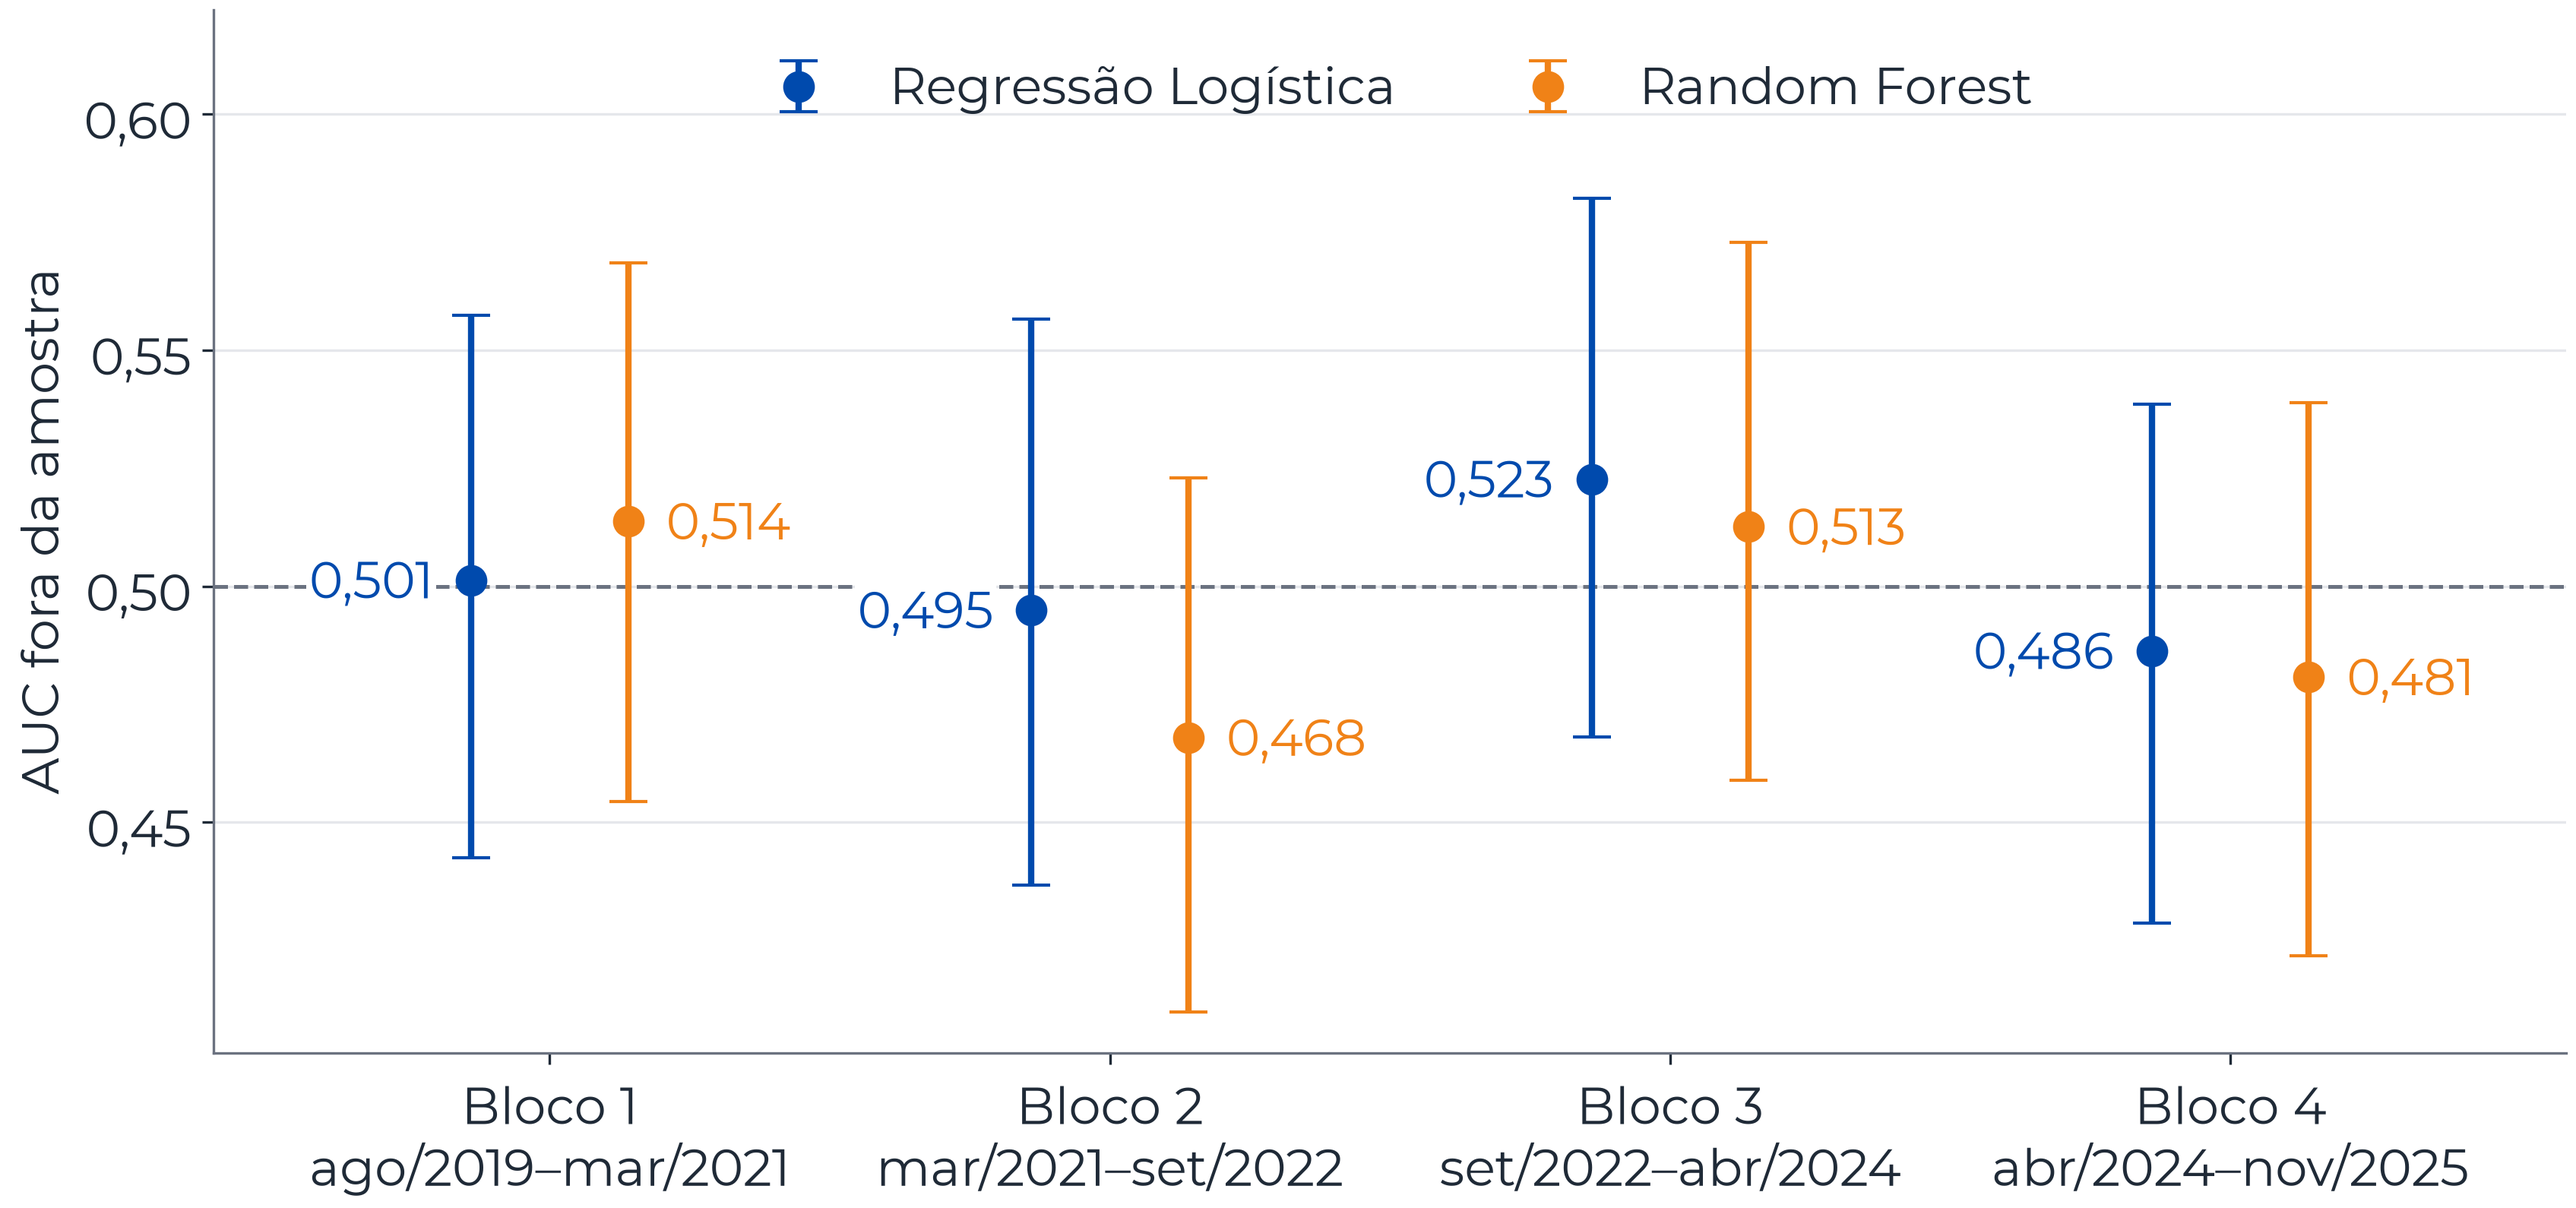
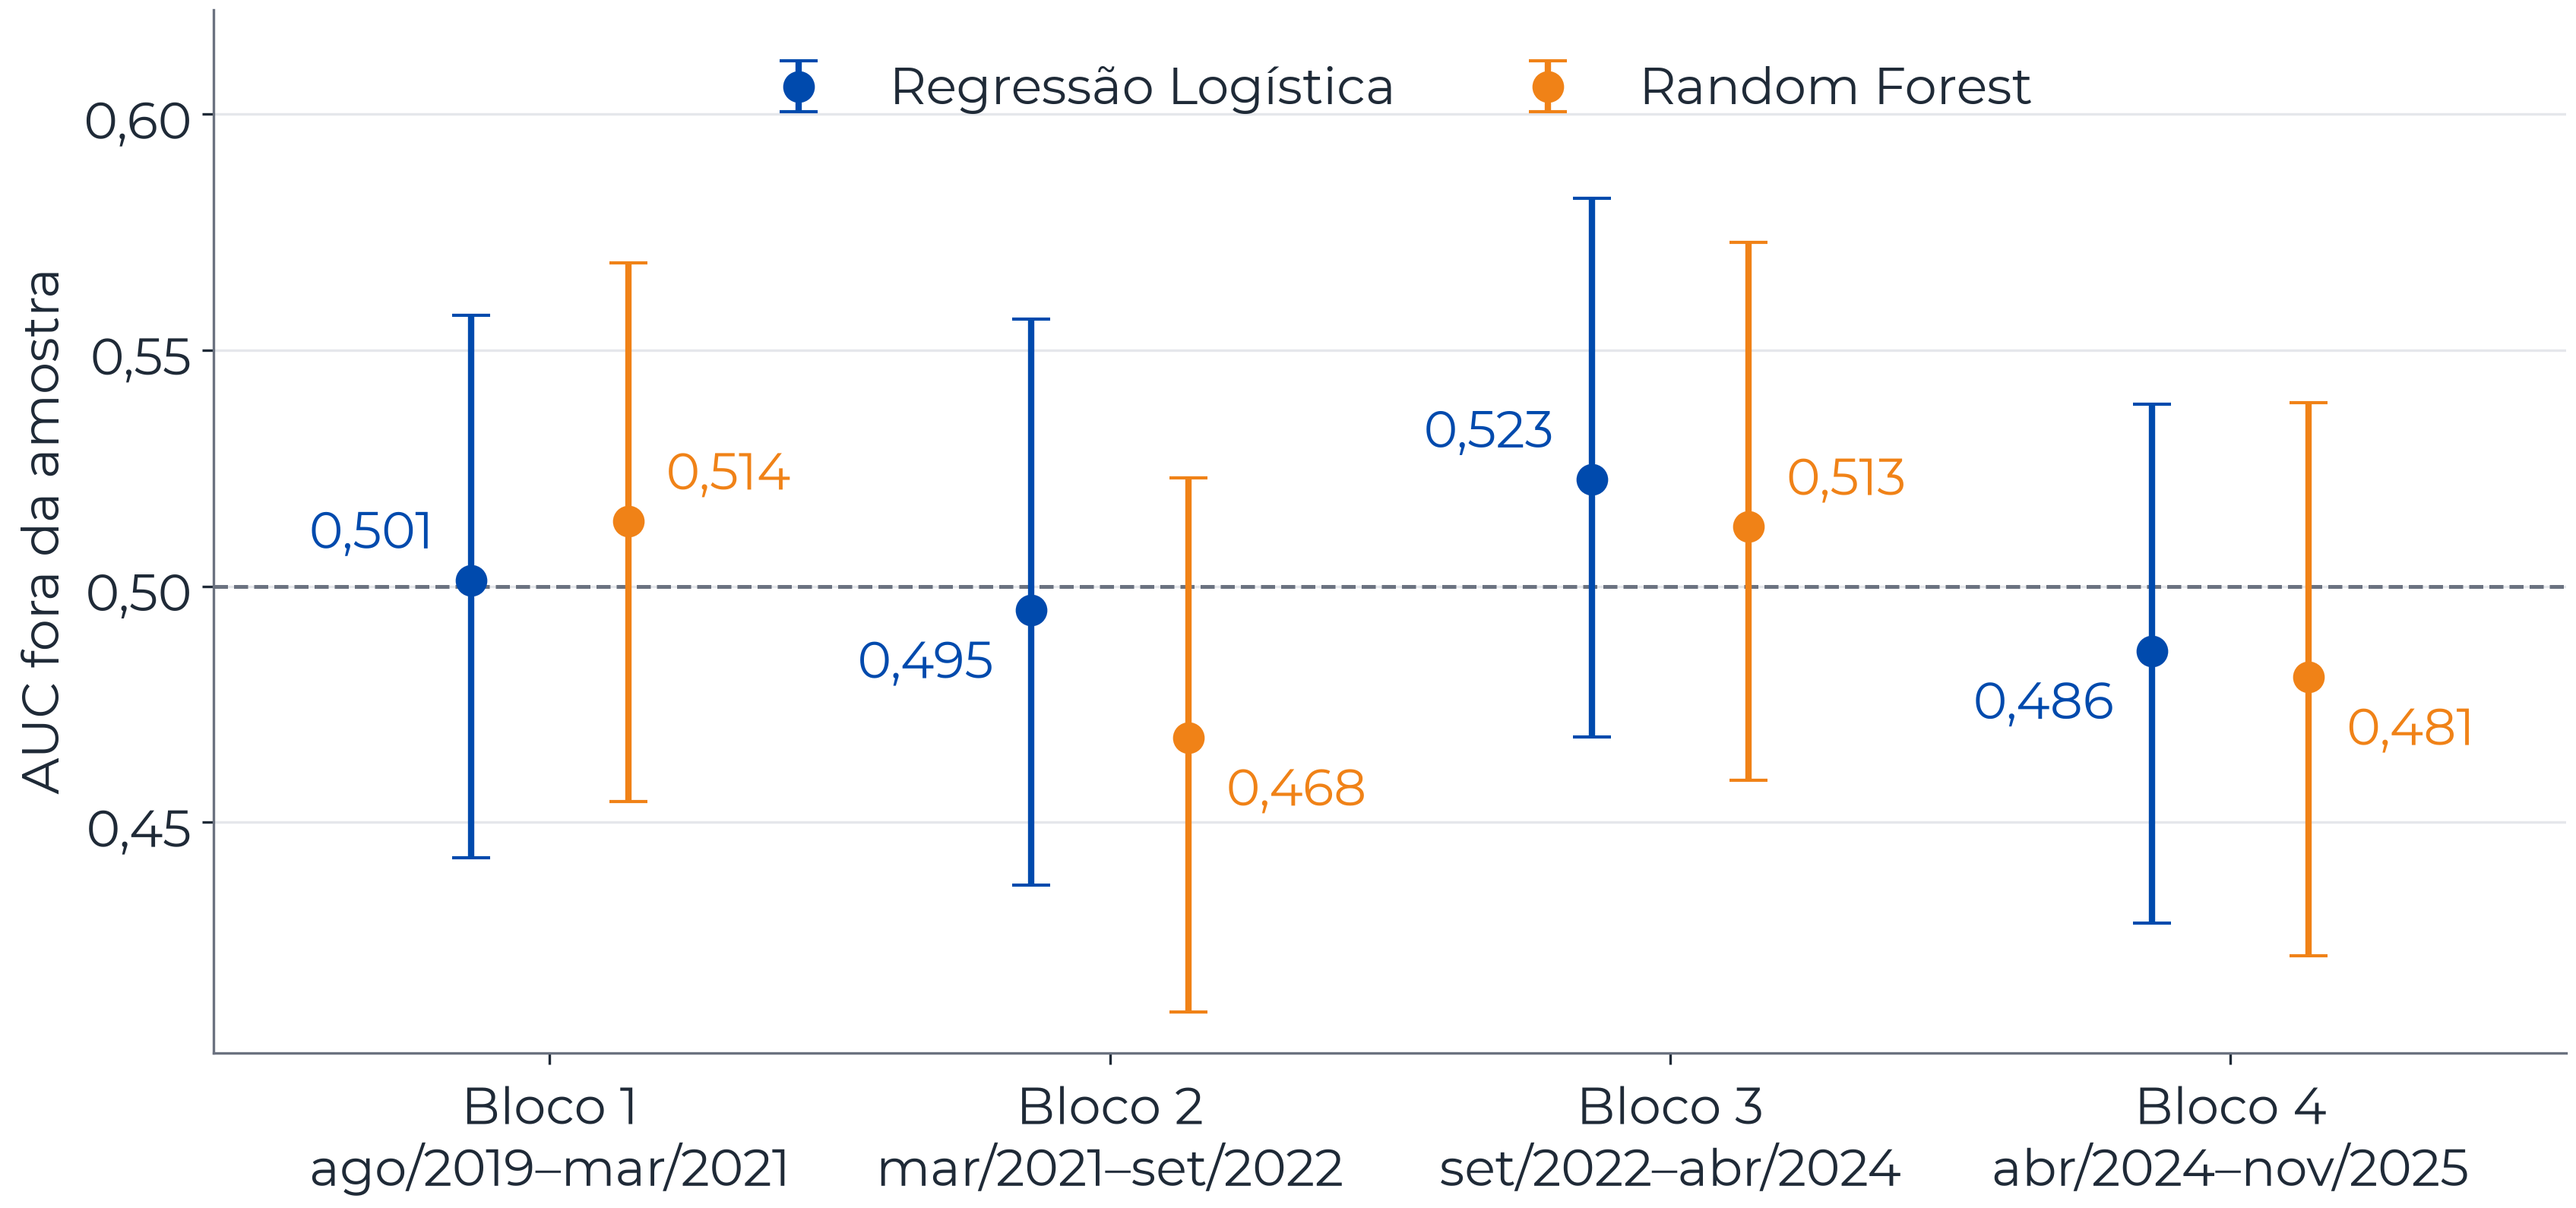
feat(apresentação): cores de polaridade, rótulos fora da linha de 0,50 e cobertura por ano
- F6: sentimento positivo extremo em #0F766E e negativo extremo em #9F1239,
  fora da paleta dos modelos, com faixas de IC em alpha 0,15. As duas cores
  ficam em `style.POLARITY_COLORS` (pior separação para daltonismo: ΔE 8,2
  em OKLab, deuteranopia).
- F5b: cada rótulo de valor fica inteiro acima da linha tracejada de 0,50
  quando o valor está nela ou acima, e inteiro abaixo quando está abaixo. O
  mesmo ajuste vale para a F9, que usa o mesmo rótulo (o "0,500" cruzava a
  linha).
- `F1_cobertura_por_ano.csv`: dias com manchete, média, mediana e total de
  manchetes por dia em cada ano da base limpa (`data.coverage_by_year`, com a
  contagem diária compartilhada com a F1).

Testes: cores da F6, rótulos sem cruzar a linha de 0,50 na F5b e na F9, e
medianas de 2018 (72) e 2024 (10). Números das figuras inalterados.

diff --git a/tests/test_presentation.py b/tests/test_presentation.py
@@ -17,6 +17,8 @@ import matplotlib.image as mpimg
 import numpy as np
 import pandas as pd
 import pytest
+from matplotlib.collections import PolyCollection
+from matplotlib.colors import to_hex
 from matplotlib.figure import Figure
 from matplotlib.text import Text
 
@@ -70,7 +72,11 @@ def _drawers() -> dict[str, Callable[[pd.DataFrame], Figure]]:
     }
 
 
-COMMITTED_STEMS = sorted(path.stem for path in COMMITTED.glob("*.csv"))
+COMMITTED_STEMS = sorted(path.stem for path in COMMITTED.glob("*.csv"))  # figuras e tabelas
+FIGURE_STEMS = sorted(path.stem for path in COMMITTED.glob("*.png"))
+F5B = "F5b_auc_por_bloco_pos-submissao"
+F6 = "F6_caar_retorno_anormal_pos-submissao"
+F9 = "F9_auc_token_none_pos-submissao"
 
 
 # --------------------------------------------------------------------------- padrão visual
@@ -108,7 +114,7 @@ def test_save_writes_png_svg_and_csv_in_slide_size(tmp_path: Path, full_width: b
     pd.testing.assert_frame_equal(pd.read_csv(tmp_path / "a" / "figura.csv"), data)
 
 
-@pytest.mark.parametrize("stem", COMMITTED_STEMS)
+@pytest.mark.parametrize("stem", FIGURE_STEMS)
 def test_committed_data_redraws_in_slide_format(stem: str, tmp_path: Path) -> None:
     frame = _read(stem)
     with style.slide_style():
@@ -127,8 +133,43 @@ def test_committed_data_redraws_in_slide_format(stem: str, tmp_path: Path) -> No
 
 
 def test_post_submission_results_are_labelled_in_the_file_name() -> None:
-    labelled = {stem.split("_")[0] for stem in COMMITTED_STEMS if build.POST_SUBMISSION in stem}
+    labelled = {stem.split("_")[0] for stem in FIGURE_STEMS if build.POST_SUBMISSION in stem}
     assert labelled == {"F4a", "F5b", "F6", "F7a", "F7b", "F8", "F9"}
+
+
+def test_event_study_uses_the_polarity_colors() -> None:
+    with style.slide_style():
+        fig = charts.event_study(_read(F6))
+    ax = fig.axes[0]
+    lines = {
+        to_hex(line.get_color()).upper() for line in ax.get_lines() if line.get_marker() == "o"
+    }
+    assert lines == {color.upper() for color in style.POLARITY_COLORS.values()}
+    assert not lines & {color.upper() for color in style.MODEL_COLORS.values()}
+    bands = [band for band in ax.collections if isinstance(band, PolyCollection)]
+    assert len(bands) == 2 and all(band.get_alpha() == style.CI_ALPHA for band in bands)
+
+
+@pytest.mark.parametrize("stem", [F5B, F9])
+def test_value_labels_stay_clear_of_the_auc_reference_line(stem: str) -> None:
+    with style.slide_style():
+        fig = _drawers()[stem](_read(stem))
+        fig.canvas.draw()
+        renderer = fig.canvas.get_renderer()  # type: ignore[attr-defined]
+        ax = fig.axes[0]
+        line_y = ax.transData.transform((0, 0.5))[1]
+        labels = [text for text in ax.texts if re.fullmatch(r"0,\d{3}", text.get_text())]
+        boxes = [text.get_window_extent(renderer) for text in labels]
+    assert len(labels) == len(_read(stem))  # um rótulo por ponto
+    assert all(box.y0 > line_y or box.y1 < line_y for box in boxes)
+
+
+def test_headline_coverage_by_year() -> None:
+    coverage = _read(build.COVERAGE_STEM).set_index("ano")
+    assert coverage.loc[2018, "mediana_por_dia"] == 72
+    assert coverage.loc[2024, "mediana_por_dia"] == 10
+    assert coverage["total_manchetes"].sum() == 91941
+    assert coverage.index.tolist() == list(range(2018, 2026))
 
 
 # --------------------------------------------------------------------------- com os dados

diff --git a/src/tcc/presentation/charts.py b/src/tcc/presentation/charts.py
@@ -26,6 +26,7 @@ from tcc.presentation.style import (
     IBOVESPA_COLOR,
     MODEL_COLORS,
     MUTED_COLOR,
+    POLARITY_COLORS,
     TEXT_COLOR,
     date_br,
     decimal,
@@ -44,7 +45,11 @@ BAND_COLORS = {
 }
 TRAIN_BAR_COLOR = "#D1D5DB"
 TEST_BAR_COLOR = "#374151"
-EVENT_COLORS = {slide_data.POSITIVE_EVENTS: "#1B7F3B", slide_data.NEGATIVE_EVENTS: "#B42318"}
+EVENT_COLORS = {
+    slide_data.POSITIVE_EVENTS: POLARITY_COLORS["pos"],
+    slide_data.NEGATIVE_EVENTS: POLARITY_COLORS["neg"],
+}
+LABEL_OFFSET_PT = 12  # distância entre o ponto e o seu rótulo de valor
 VERSION_MARKERS = {slide_data.WITH_NONE: "o", slide_data.WITHOUT_NONE: "D"}
 HEATMAP_LIMIT = 0.5  # escala de cor comum aos dois painéis da F8 (Sharpe de −0,5 a 0,5)
 
@@ -65,18 +70,24 @@ def _years_from_january(ax: Axes, first: pd.Timestamp, last: pd.Timestamp) -> No
     year_ticks(ax.xaxis)
 
 
-def _value_label(ax: Axes, text: str, xy: tuple[float, float], side: int, color: str) -> None:
-    """Valor escrito ao lado de um ponto (à esquerda se `side` < 0), sobre fundo branco."""
+def _value_label(
+    ax: Axes, text: str, xy: tuple[float, float], side: int, color: str, reference: float
+) -> None:
+    """Valor ao lado de um ponto (à esquerda se `side` < 0), do lado oposto à linha `reference`.
+
+    O rótulo fica inteiro acima da linha quando o valor está nela ou acima, e inteiro abaixo
+    quando está abaixo: assim nunca cruza a linha tracejada de referência (AUC = 0,50).
+    """
+    above = xy[1] >= reference
     ax.annotate(
         text,
         xy,
-        xytext=(side * 12, 0),
+        xytext=(side * LABEL_OFFSET_PT, LABEL_OFFSET_PT / 2 if above else -LABEL_OFFSET_PT / 2),
         textcoords="offset points",
         ha="right" if side < 0 else "left",
-        va="center",
+        va="bottom" if above else "top",
         fontsize=AXIS_PT,
         color=color,
-        bbox={"facecolor": "white", "edgecolor": "none", "pad": 1},
     )
 
 
@@ -374,7 +385,7 @@ def auc_by_block(frame: pd.DataFrame) -> Figure:
         )
         side = -1 if offsets[model] < 0 else 1
         for xi, auc in zip(x, rows["auc"], strict=True):
-            _value_label(ax, decimal(auc), (xi, auc), side, color)
+            _value_label(ax, decimal(auc), (xi, auc), side, color, reference=0.5)
     _zero_line(ax, 0.5)
     blocks = frame.drop_duplicates("bloco")
     ax.set_xticks(
@@ -574,7 +585,7 @@ def none_token_auc(frame: pd.DataFrame) -> Figure:
                 markeredgewidth=2,
             )
             side = -1 if offsets[version] < 0 else 1
-            _value_label(ax, decimal(row["auc"]), (x, row["auc"]), side, color)
+            _value_label(ax, decimal(row["auc"]), (x, row["auc"]), side, color, reference=0.5)
     _zero_line(ax, 0.5)
     ax.set_xticks(range(len(MODEL_COLORS)), list(MODEL_COLORS))
     ax.set_xlim(-0.6, len(MODEL_COLORS) - 0.4)

diff --git a/src/tcc/presentation/build.py b/src/tcc/presentation/build.py
@@ -18,10 +18,16 @@ from matplotlib.figure import Figure
 
 from tcc import datasets, reproduce
 from tcc.config import Settings
+from tcc.figures import write_csv
 from tcc.presentation import charts, style
 from tcc.presentation import data as slide_data
 
 POST_SUBMISSION = "pos-submissao"
+COVERAGE_STEM = "F1_cobertura_por_ano"
+COVERAGE_DESCRIPTION = (
+    "Tabela de apoio à F1 (só CSV): dias com manchete, média, mediana e total de manchetes "
+    "por dia em cada ano da base limpa (2025 até 19/11)"
+)
 NEEDS_NEWS = ("F1", "F9")
 
 
@@ -130,8 +136,8 @@ def slides(
     return [first, *items, last]
 
 
-def readme(items: list[Slide]) -> str:
-    """Lista das figuras para `reports/apresentacao/README.md`."""
+def readme(items: list[Slide], tables: dict[str, str]) -> str:
+    """Lista das figuras e das tabelas de apoio para `reports/apresentacao/README.md`."""
     lines = [
         "# Figuras da apresentação",
         "",
@@ -147,6 +153,7 @@ def readme(items: list[Slide]) -> str:
         "|---|---|",
     ]
     lines += [f"| `{item.stem}` | {item.description} |" for item in items]
+    lines += [f"| `{stem}` | {description} |" for stem, description in tables.items()]
     return "\n".join(lines) + "\n"
 
 
@@ -164,7 +171,13 @@ def write_figures(
         items = slides(results, news, ibovespa)
         for item in items:
             written += style.save(item.draw(item.data), item.data, output, item.stem)
+    tables: dict[str, str] = {}
+    if news is not None:
+        coverage_path = output / f"{COVERAGE_STEM}.csv"
+        write_csv(slide_data.coverage_by_year(news), coverage_path)
+        written.append(coverage_path)
+        tables[COVERAGE_STEM] = COVERAGE_DESCRIPTION
     readme_path = output / "README.md"
-    readme_path.write_text(readme(items), encoding="utf-8")
+    readme_path.write_text(readme(items, tables), encoding="utf-8")
     skipped = [] if news is not None else list(NEEDS_NEWS)
     return [*written, readme_path], skipped

diff --git a/src/tcc/presentation/data.py b/src/tcc/presentation/data.py
@@ -60,11 +60,29 @@ def study_periods(
     }
 
 
+def headlines_per_day(news: pd.DataFrame) -> pd.Series:
+    """Número de manchetes da base limpa em cada dia que tem ao menos uma, em ordem de data."""
+    return pd.to_datetime(news["date"]).dt.floor("D").value_counts().sort_index()
+
+
+def coverage_by_year(news: pd.DataFrame) -> pd.DataFrame:
+    """Cobertura da base limpa por ano: média, mediana e total de manchetes por dia.
+
+    Conta só os dias com ao menos uma manchete (2025 vai até 19/11, fim da coleta).
+    """
+    per_day = headlines_per_day(news)
+    coverage = per_day.groupby(pd.DatetimeIndex(per_day.index).year).agg(
+        ["size", "mean", "median", "sum"]
+    )
+    coverage.columns = ["dias_com_manchete", "media_por_dia", "mediana_por_dia", "total_manchetes"]
+    return coverage.rename_axis("ano").reset_index()
+
+
 def ibovespa_and_headlines(
     results: ArticleResults, news: pd.DataFrame, schedule: pd.DataFrame
 ) -> pd.DataFrame:
     """F1: fechamento do Ibovespa, manchetes da base limpa por dia e faixa do estudo."""
-    headlines = pd.to_datetime(news["date"]).dt.floor("D").value_counts().rename("manchetes")
+    headlines = headlines_per_day(news).rename("manchetes")
     prices = results.returns_full.set_index("day")["close"].rename("ibovespa")
     frame = pd.concat([prices, headlines], axis=1).sort_index().rename_axis("dia").reset_index()
     frame["manchetes"] = frame["manchetes"].fillna(0).astype(int)

diff --git a/src/tcc/presentation/style.py b/src/tcc/presentation/style.py
@@ -44,6 +44,9 @@ TEXT_COLOR = "#1F2A37"
 MUTED_COLOR = "#6B7280"
 GRID_COLOR = "#E5E7EB"
 CI_ALPHA = 0.15
+# Polaridade do sentimento extremo (F6): fora da paleta dos modelos e distinguíveis com
+# daltonismo (pior caso: ΔE 8,2 em OKLab na deuteranopia)
+POLARITY_COLORS = {"pos": "#0F766E", "neg": "#9F1239"}
 
 FONT_FILE = Path(__file__).parent / "fonts" / "Montserrat-Regular.ttf"
 FONT = "Montserrat"

diff --git a/reports/apresentacao/README.md b/reports/apresentacao/README.md
@@ -22,3 +22,4 @@ CSV; vírgula decimal nas figuras). Tamanho de slide 11,3 × 5,3 pol. (largura t
 | `F7b_patrimonio_sem_lookahead_pos-submissao` | O mesmo, com limiares sem look-ahead (verificação c) |
 | `F8_sharpe_12_configuracoes_pos-submissao` | Sharpe das 12 configurações da Tabela 4, com os limiares do artigo e sem look-ahead, e o Sharpe do Ibovespa no mesmo período (verificações a e c) |
 | `F9_auc_token_none_pos-submissao` | AUC com e sem o token espúrio "None" (bug 12), com IC 95% |
+| `F1_cobertura_por_ano` | Tabela de apoio à F1 (só CSV): dias com manchete, média, mediana e total de manchetes por dia em cada ano da base limpa (2025 até 19/11) |
